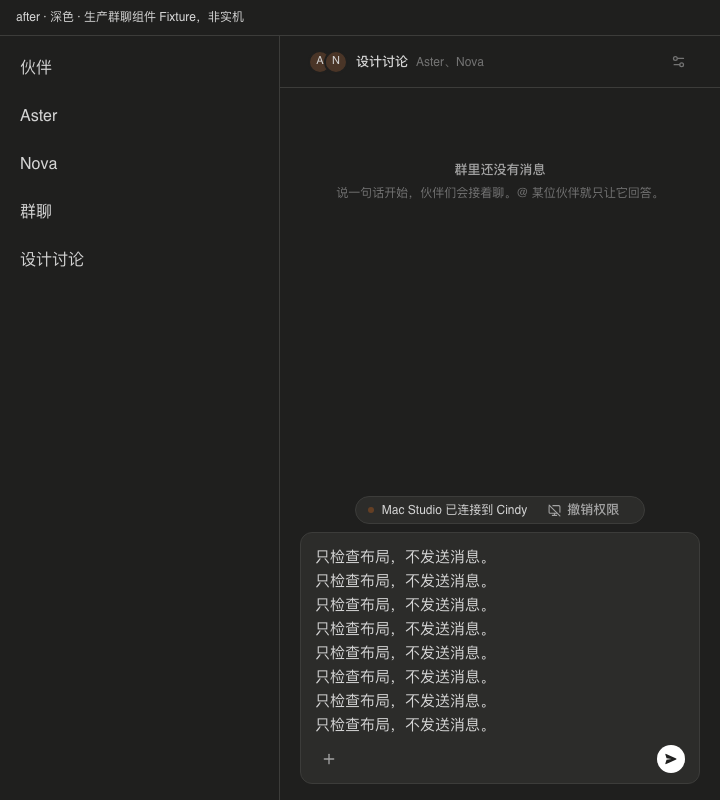
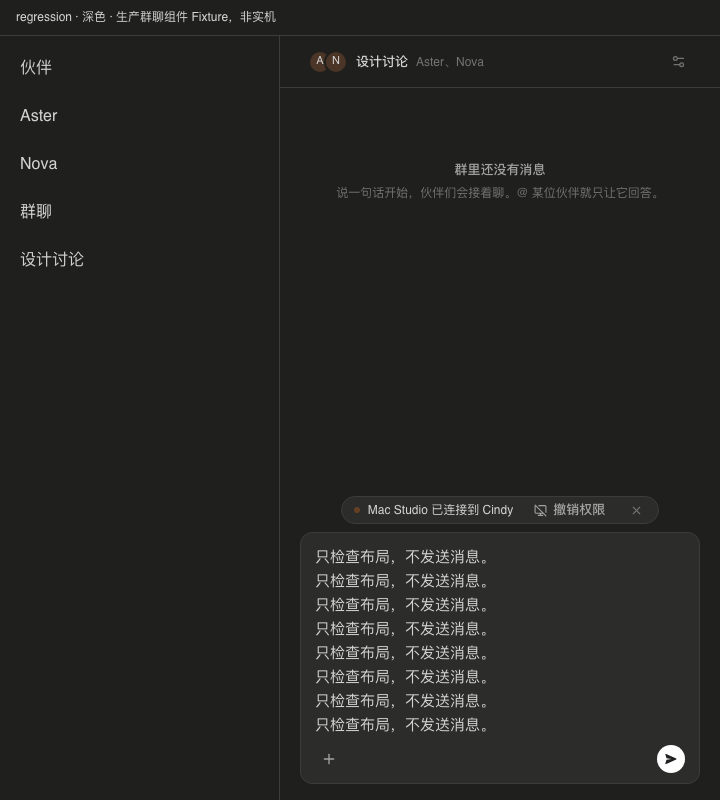
fix(bots): reuse composer connection notice collapse controls

Changed region(s): [[0.4889, 0.625, 0.8556, 0.6562], [0.0306, 0.0, 0.3972, 0.0312]]

diff --git a/apps/desktop/src/renderer/features/bots/__tests__/BotGroupChatView.test.tsx b/apps/desktop/src/renderer/features/bots/__tests__/BotGroupChatView.test.tsx
@@ -14,6 +14,7 @@ import type {
 } from '../../../../shared/botGroupChat';
 
 const mocks = vi.hoisted(() => ({
+  groupId: 'g1',
   navigate: vi.fn(),
   getBotGroup: vi.fn(),
   sendBotGroupMessage: vi.fn(),
@@ -42,7 +43,7 @@ vi.mock('react-i18next', () => ({
 vi.mock('react-router-dom', () => ({
   useLocation: () => ({ pathname: '/bots/groups/g1', search: '' }),
   useNavigate: () => mocks.navigate,
-  useParams: () => ({ groupId: 'g1' }),
+  useParams: () => ({ groupId: mocks.groupId }),
 }));
 vi.mock('@/contexts/dataOwnerGeneration', () => ({
   getDataOwnerGeneration: () => 1,
@@ -204,6 +205,7 @@ function renderView() {
 }
 
 beforeEach(() => {
+  mocks.groupId = 'g1';
   __resetControlledBannerForTests();
   mocks.controlledPush = null;
   mocks.getControlledState.mockReset().mockResolvedValue({ controlledBy: [] });
@@ -270,7 +272,8 @@ describe('BotGroupChatView', () => {
       scrollHeight: { configurable: true, get: () => 1600 },
       clientHeight: {
         configurable: true,
-        get: () => main.querySelector('[data-controlled-banner-chip]') ? 564 : 600,
+        get: () => main.querySelector('[data-controlled-banner-chip]') ? 564
+          : main.querySelector('[data-controlled-banner="collapsed"]') ? 572 : 600,
       },
       scrollTop: {
         configurable: true,
@@ -282,8 +285,47 @@ describe('BotGroupChatView', () => {
     fireEvent.scroll(scroller);
     act(() => mocks.controlledPush?.({ controllers: [{ deviceId: 'studio', name: 'Mac Studio' }] }));
     expect(scroller.scrollTop).toBe(pinned ? 1036 : 180);
+    fireEvent.click(screen.getByRole('button', { name: 'remoteDevice.collapseControlledNotice' }));
+    expect(scroller.scrollTop).toBe(pinned ? 1028 : 180);
+    fireEvent.click(screen.getByRole('button', { name: 'remoteDevice.expandControlledNotice' }));
+    expect(scroller.scrollTop).toBe(pinned ? 1036 : 180);
     act(() => mocks.controlledPush?.({ controllers: [] }));
     expect(scroller.scrollTop).toBe(pinned ? 1000 : 180);
+  });
+
+  it('reuses the composer close and restore controls with independent group state', async () => {
+    mocks.getBotGroup.mockImplementation(async () => ({ ok: true, group: detail({ id: mocks.groupId }) }));
+    mocks.getControlledState.mockResolvedValue({
+      controlledBy: [{ deviceId: 'studio', name: 'Mac Studio' }],
+    });
+    const fallback = render(<ControlledBanner />);
+    let groupView = renderView();
+    fireEvent.click(await screen.findByRole('button', { name: 'remoteDevice.collapseControlledNotice' }));
+    expect(groupView.container.querySelector('[data-controlled-banner-chip]')).toBeNull();
+    expect(screen.getByRole('button', { name: 'remoteDevice.expandControlledNotice' })).toBeTruthy();
+    expect(fallback.container.childElementCount).toBe(0);
+    expect(mocks.revoke).not.toHaveBeenCalled();
+    expect(mocks.sendBotGroupMessage).not.toHaveBeenCalled();
+    groupView.unmount();
+
+    // A task with the same raw ID must not inherit the group's collapse state.
+    const task = render(<ControlledBanner placement="composer" sessionId="g1" />);
+    expect(task.container.querySelector('[data-controlled-banner-chip]')).toBeTruthy();
+    task.unmount();
+    mocks.groupId = 'g2';
+    groupView = renderView();
+    await screen.findByRole('textbox');
+    expect(groupView.container.querySelector('[data-controlled-banner-chip]')).toBeTruthy();
+    groupView.unmount();
+
+    mocks.groupId = 'g1';
+    groupView = renderView();
+    await screen.findByRole('textbox');
+    expect(groupView.container.querySelector('[data-controlled-banner-chip]')).toBeNull();
+    fireEvent.click(screen.getByRole('button', { name: 'remoteDevice.expandControlledNotice' }));
+    expect(groupView.container.querySelector('[data-controlled-banner-chip]')).toBeTruthy();
+    expect(screen.getByRole('button', { name: 'remoteDevice.revokeAccess' })).toBeTruthy();
+    expect(fallback.container.childElementCount).toBe(0);
   });
 
   it('hosts the connection notice before the composer and restores the global fallback on exit', async () => {

diff --git a/apps/desktop/src/renderer/features/bots/BotGroupChatView.tsx b/apps/desktop/src/renderer/features/bots/BotGroupChatView.tsx
@@ -25,7 +25,7 @@ import {
   isDataOwnerPushCurrent,
 } from '@/contexts/dataOwnerGeneration';
 import { toast } from '@/lib/toast';
-import { ControlledBanner, useControlledBy } from '@/features/remote-device/ControlledBanner';
+import { ControlledBanner, useControlledBy, useComposerCollapsed } from '@/features/remote-device/ControlledBanner';
 import { useAgentIslandActivity } from '@/state/agentIslandActivity';
 import type {
   BotGroupDetail,
@@ -105,6 +105,9 @@ function BotGroupChatContent({ groupId }: { groupId: string }) {
   const { t, i18n } = useTranslation();
   const controlledBy = useControlledBy();
   const hasControlledBanner = controlledBy.length > 0;
+  // Groups have no single task session; namespace their existing composer UI state.
+  const controlledBannerKey = `bot-group:${groupId}`;
+  const controlledBannerCollapsed = useComposerCollapsed(controlledBannerKey);
   const navigate = useNavigate();
   const location = useLocation();
   const [state, setState] = useState<GroupViewState>({ kind: 'loading' });
@@ -249,7 +252,7 @@ function BotGroupChatContent({ groupId }: { groupId: string }) {
       return;
     }
     if (stickToBottomRef.current) element.scrollTop = element.scrollHeight;
-  }, [lastSequence, speakingKey, messages.length, hasControlledBanner]);
+  }, [lastSequence, speakingKey, messages.length, hasControlledBanner, controlledBannerCollapsed]);
 
   // Markdown, code blocks and avatars finish layout after the first paint; keep a reader
   // who is at the bottom pinned there while the content grows.
@@ -519,10 +522,10 @@ function BotGroupChatContent({ groupId }: { groupId: string }) {
         </div>
       </div>
       {hasControlledBanner && (
-        // Match the chat composer notice; mounting inline also suppresses the global fallback.
+        // Like teammate chats, keep the collapsed breathing light above the composer.
         <div className="shrink-0 px-5 pt-2">
-          <div className="mx-auto w-full max-w-[760px]">
-            <ControlledBanner placement="inline" />
+          <div className="mx-auto flex w-full max-w-[760px] justify-center px-2">
+            <ControlledBanner placement="composer" sessionId={controlledBannerKey} />
           </div>
         </div>
       )}
